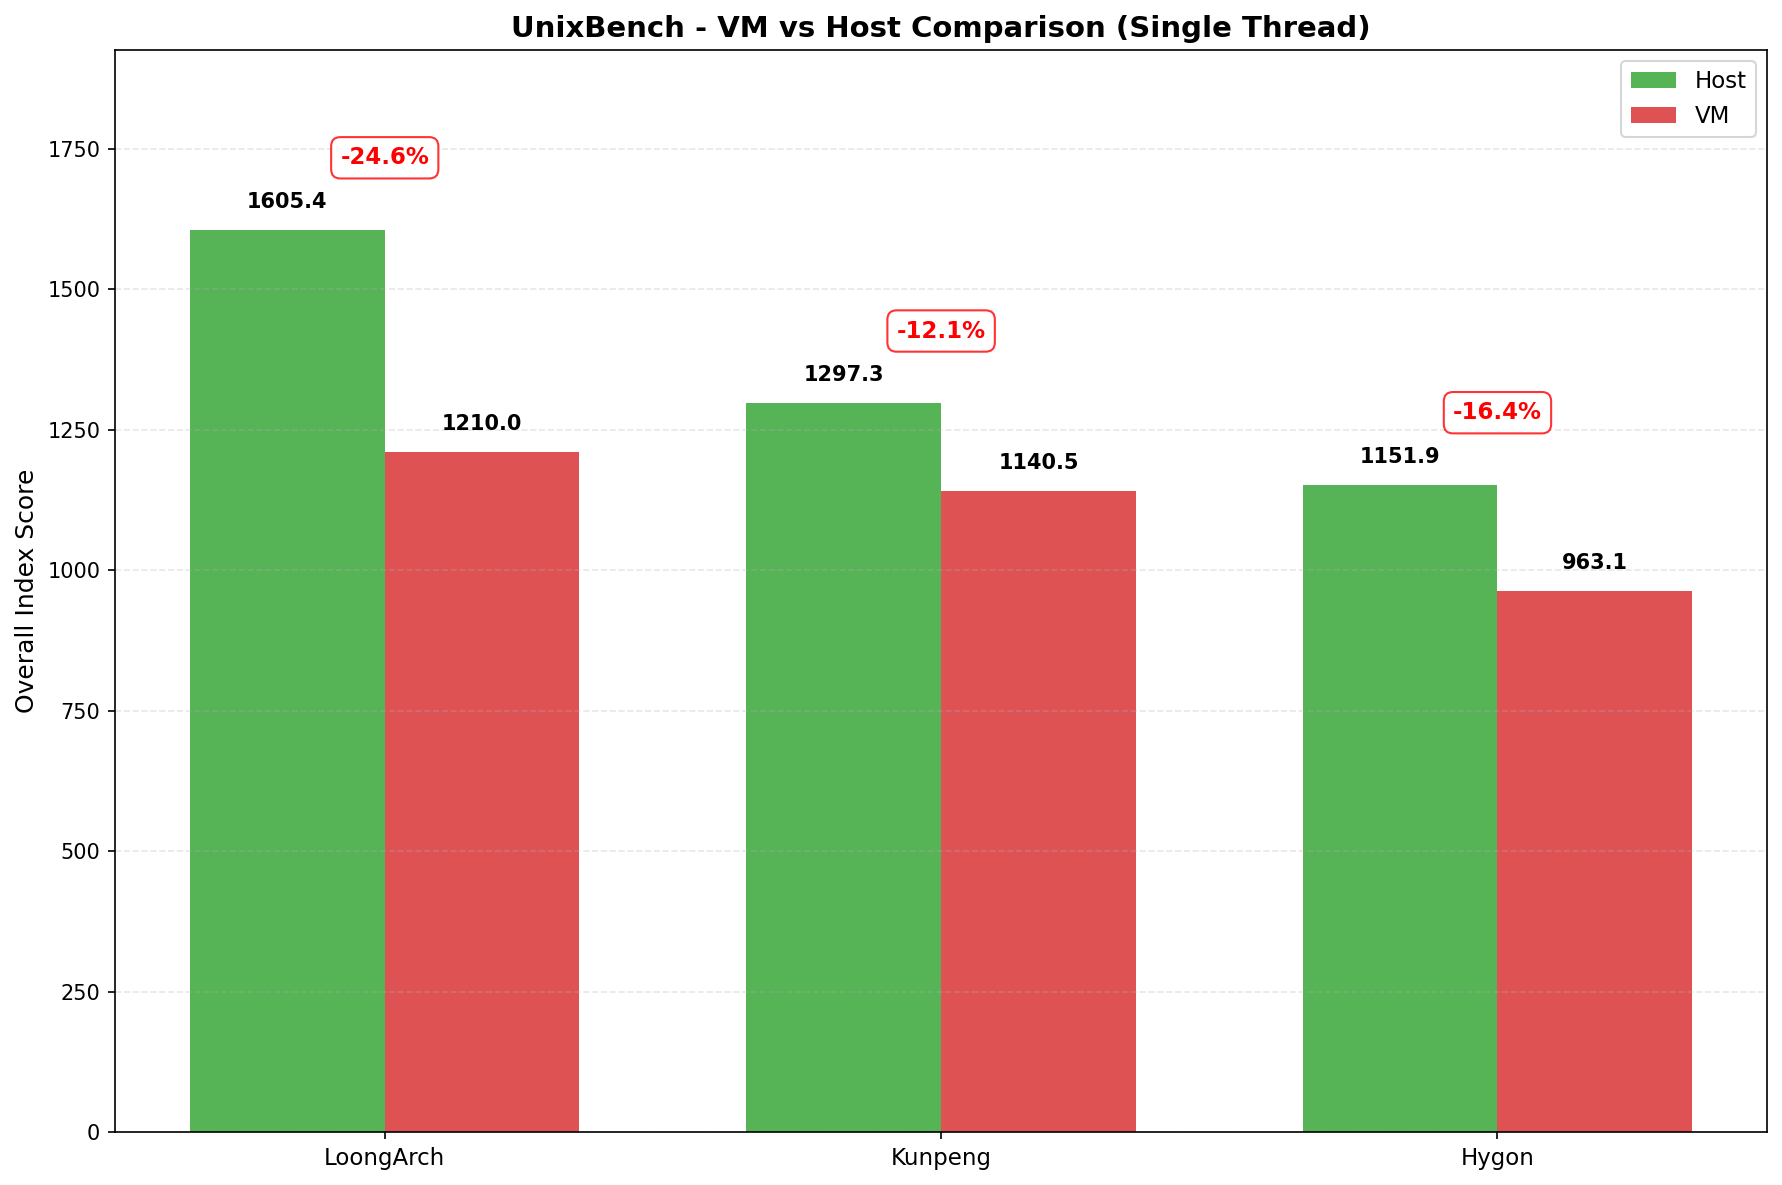
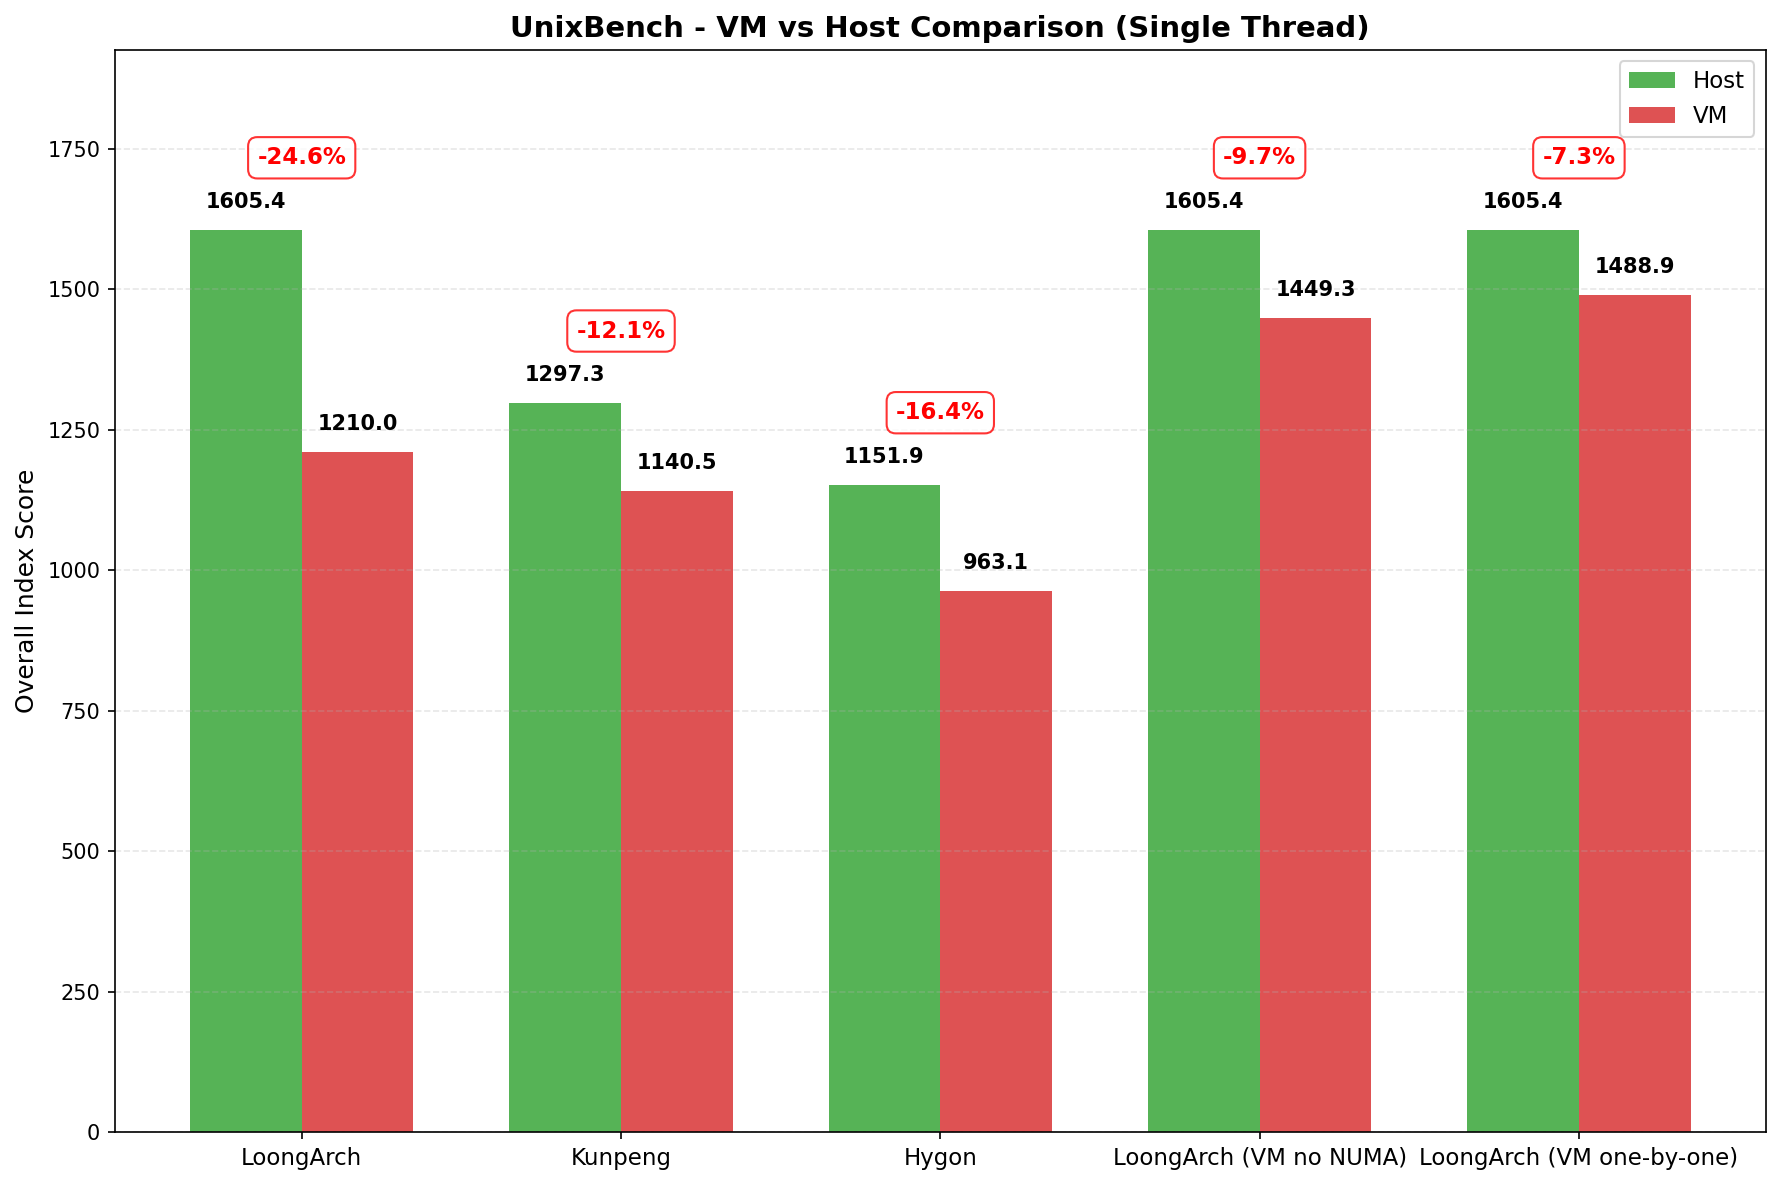
loongarch: update unixbench bind cpu to one numa  or one by one

diff --git a/case/loongarch64/perf/unixbench/README.md b/case/loongarch64/perf/unixbench/README.md
@@ -1,0 +1,286 @@
+## 硬件说明
+
+### CPU
+
+| 架构        | cpu               | thread数量 | 主频   | 缓存L1(icache + dcache) | 缓存L2 | 缓存L3 |
+|-------------|-------------------|------------|--------|-------------------------|--------|--------|
+| loongarch64 | Loongson-3C6000/D | 128        | 2.1GHz | 4MiB+4MiB               | 16MiB  | 128MiB |
+| hygon       | 7390              | 128        | 2.5GHz | 2MiB+4MiB               | 32MiB  | 128MiB |
+| kunpeng     | Kunpeng 920 7262C | 128        | 2.5GHz | 8MiB+8MiB               | 64MiB  | 128MiB |
+
+### memory
+
+| 架构        | 大小 | 规格                     | numa |
+|-------------|------|--------------------------|------|
+| loongarch64 | 512G | 16 * 32GB DDR4 3200 MT/s | 4    |
+| hygon       | 1T   | 32 *32GB DDR4 3200MT/s   | 2    |
+| kunpeng     | 1T   | 16 * 32GB DDR4 3200MT/s  | 2    |
+
+## CPU 性能测试
+
+### UNIXBENCH
+
+`UNIXBENCH`跑分用来衡量系统的综合性能,其中
+
+* `dhry2reg`用来衡量字符串性能指标
+* `whetstone-double`衡量浮点性能指标
+* 总跑分数据用来衡量系统综合性能
+
+#### dhry2reg
+
+![dhrystone_2](./unixbench/unixbench_dhrystone_2_using_register_variables_detailed_comparison.png)
+
+kunpeng强于龙芯 `14.3%`, hygon弱于龙芯`2.9%`, 龙芯虚拟化损耗`2.5%`, 可以忽略不计.
+
+#### double precision whetstone
+
+![double_precision_whetstone](./unixbench/unixbench_double_precision_whetstone_detailed_comparison.png)
+
+龙芯和kunpeng几乎持平，hygon性能最好，高于龙芯鲲鹏`46%`
+
+#### 综合跑分
+
+![unixbench_overall_single_thread](./unixbench/unixbench_overall_single_thread.png)
+![unixbench 16 thread](./unixbench/unixbench_overall_16_threads.png)
+
+龙芯无论单线程或者多线程跑分均比较优秀，高于鲲鹏约`20%-25%`, 高于hygon约`25% ~30%`
+
+#### 综合跑分虚拟化损耗
+
+![unixbench 1 vm vs host](./unixbench/unixbench_vm_vs_host_unixbench1.png)
+![unixbench 16 vm vs host](./unixbench/unixbench_vm_vs_host_unixbench16.png)
+
+kunpeng非常优秀，综合跑分无论是单线程还是多线程，虚拟化损耗在`10%-15%`, 而龙芯在`25%-45%`,  其中
+多线程性能损耗更明显。(单线程下降24.6%, 多线程下降43.2%)
+
+当将cpu绑定到一个numa时 (设置那个vcpu thread 的亲核性为一个cpuset), 单线程会有提升。（损耗从24%
+降低到10%). 但是16线程并未有提升。
+
+当将cpu绑定进行1:1绑核, 单线程虚拟机损耗进一步降低至7%, 另外16线程损耗从43%降低至25%. 和kunpeng仍有
+差距（kunpeng并未做1:1绑核)
+
+#### 优化UNIXBENCH 虚拟机跑分
+
+### sysbench
+
+#### sysbench 多核单核跑分
+
+![sysbench 1](./sysbench/sysbench_cpu_single_thread.png)
+
+![sysbench 16](./sysbench/sysbench_cpu_16_threads.png)
+
+龙芯高于hygon `48%`, 低于kunpeng `30%`左右
+
+#### 虚拟化损耗
+
+![sysbench vm 1](./sysbench/sysbench_cpu_1_threads_vm_comparison.png)
+
+![sysbench vm 16](./sysbench/sysbench_cpu_16_threads_vm_comparison.png)
+
+sysbench 跑分，均无虚拟化损耗
+
+## stream test(host)
+
+stream 测试分为四项:
+
+* copy: Copy操作最为简单，它先访问一个内存单元读出其中的值，再将值写入到另一个内存单元。
+* scale: Scale操作先从内存单元读出其中的值，作一个乘法运算，再将结果写入到另一个内存单元。
+* add: Add操作先从内存单元读出两个值，做加法运算， 再将结果写入到另一个内存单元。
+* tride: Triad的中文含义是将三个组合起来，在本测试中表示的意思是将Copy、Scale、Add三种操作
+  组合起来进行测试。具体操作方式是：先从内存单元中中读两个值a、b，对其进行乘加混合运算
+（a + 因子 * b ） ，将运算结果写入到另一个内存单元。
+
+结果如下:
+
+### not cross numa
+
+不跨numa测试:
+
+![stream test diff arch](./stream/stream_architecture_comparison.png)
+
+hygon性能最好, kunpeng 比龙芯高`65%~85`, hygon比kunpeng高`116~134%`
+
+### cross-numa
+
+![stream test diff arch cross-numa](./stream/stream_cross_numa_comparison.png)
+
+cross-numa 测试中，kunpeng比龙芯高200%，hygon比龙芯高190%.
+
+### 跨numa损耗
+
+![stream test diff arch cross-numa](./stream/stream_numa_comparison.png)
+
+龙芯损耗在`45%~55%`之间。
+
+鲲鹏损耗在`10%~15%`之间。
+
+hygon损耗在`35~40%`之间。
+
+**但是, 龙芯是每个socket两个numa，而其他架构每个socket是一个numa, 所以这样测试
+有点不太公平**，我们应该用per-socket，和整机粒度来评测。测试如下:
+
+编译方式:
+
+```sh
+gcc -O3 -fopenmp -DSTREAM_ARRAY_SIZE=100000000 -mtune=native -DNTIMES=100 stream.c -o stream
+```
+
+测试方式:
+
+* 环境变量(所有测试均执行):
+
+  ```sh
+  export OMP_PLACES=cores
+  export OMP_PROC_BIND=spread
+  ```
+
+* 单socket
+  * 环境变量(单socket执行)
+
+    ```sh
+    export OMP_NUM_THREADS=32
+    ```
+
+  * loongarch命令:
+
+    ```sh
+    numactl --cpunodebind=0,1 ./stream
+    ```
+
+  * kunpeng命令
+
+    ```sh
+    numactl --cpunodebind=0 ./stream
+    ```
+
+* 整机
+  * 环境变量
+
+    ```sh
+    export OMP_NUM_THREADS=64
+    ```
+
+  * 命令
+
+    ```sh
+    numactl ./stream
+    ```
+
+![stream](./stream_allsocket/stream_socket_combined.png)
+
+> NOTE
+>
+> 目前仅有龙芯机器和kunpeng机器做对比测试，可以发现, 在单socket情况下做测试，
+> 龙芯性能要比鲲鹏高`6~25%`左右, 在整机情况下，kunpeng要比龙芯高`%1~30%`左右。
+> (可能得益于kunpeng良好的跨numa性能)
+
+## TODO
+
+* [X] 测试hygon vm 的unixbench, 目前还在测试中
+
+## 综合说明
+
+目前仅测试cpu和内存
+
+### CPU性能测试结果
+
+> NOTE
+>
+> * `+` 龙芯比该架构性能高出的百分比
+> * `-` 龙芯比该架构性能低出的百分比
+
+各个架构之间的跑分对比:
+
+|测试项|龙芯对比hygon|龙芯对比kunpeng|
+|---|---|---|
+|unixbench dhry2reg|+3%|14%|
+|unixbench double precision whetstone|-46%| +- < %1|
+|unixbench 综合跑分|+25%~30%|+20%~25%|
+|sysbench 测试|+45%~50%|-30%-35%|
+
+各个架构unixbench 综合跑分虚拟化损耗(其他测试项虚拟化损耗可忽略 < 5%):
+
+**不做任何numa亲和性**
+
+|架构|损耗比单核|损耗比16核|
+|----|----|----|
+|loongarch|25%|43%|
+|kunpeng|12%|12%|
+|hygon|16%|17%|
+
+**numa cpuset亲核**
+
+|架构|损耗比单核|损耗比16核|
+|----|----|----|
+|loongarch|9.7%|44.1%|
+
+**1:1绑核**
+
+|架构|损耗比单核|损耗比16核|
+|----|----|----|
+|loongarch|7.3%|25.4%|
+
+各个架构之间的跑分对比:
+
+### 测试一个numa
+
+|是否跨numa|龙芯对比hygon|龙芯对比kunpeng|
+|----|----|----|
+|不跨numa|-115%~134%|-65%~83%|
+|跨numa|-185%~200%|-200%~208%|
+
+> NOTE
+>
+> 该测试中虚拟化带来的损耗可忽略 <5%, 所以下面仅对比跨numa带来的损耗:
+
+各个架构跨numa损耗:
+
+|龙芯|kunpeng|hygon|
+|----|----|----|
+|45%~55%|10%~15%|35%~40%|
+
+### 测试一个socket && 整机
+
+||龙芯对比kunpeng|
+|----|----|
+|单socket|+6%~25%|
+|整机|-1%~30%|
+
+结论由于龙芯架构一个socket有两个numa，而其他的架构为一个socket一个numa，
+所以从单socket来看，其他架构的性能要比loongxin高接近一倍。
+
+但是从单socket测试，龙芯甚至比kunpeng要好，但是整机粒度来看，龙芯性能不如kunpeng，
+因为龙芯有4个numa，其访问跨numa的概率要更大，另外，龙芯跨numa性能要差. 所以被kunpeng反超。
+
+## 其他细节图
+
+### UNIXBENCH 各项跑分对比
+
+单线程
+![unixbench](./unixbench/unixbench_detailed_single_thread.png)
+
+多线程
+![unixbench](./unixbench/unixbench_detailed_16_threads.png)
+
+### 内存延迟测试`lat_mem_rd`
+
+![memory_latency](./lat_mem_rd/memory_latency_9lines.png)
+
+### Perfbench
+
+![perfbench1](./perfbench_sched/perfbench_combined.png)
+
+### core-to-core latency
+
+![core-to-core-latency](./core-to-core-latency/images/core_to_core_latency_loongarch.png)
+
+## 龙芯目前存在的性能问题
+
+1. 虚拟化损耗较高
+   * perfbench
+   * unixbench综合跑分
+2. stream 测试性能低
+3. 跨nume通信差
+   * `core-to-core-latency`
+   * `lat_mem_rd` 跨numa测试大步长
+   * stream 跨numa测试
